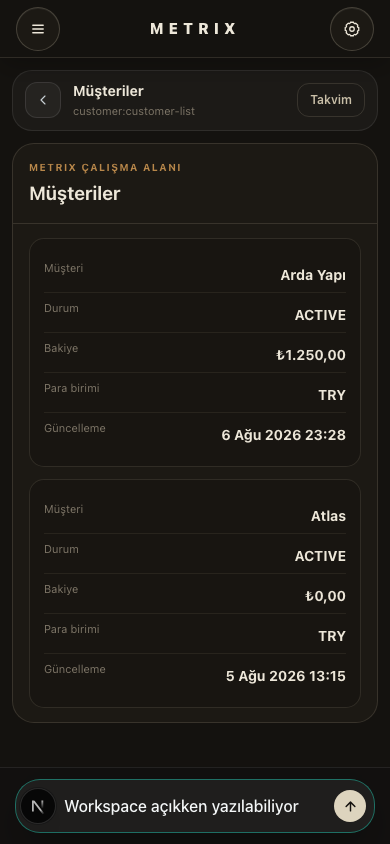
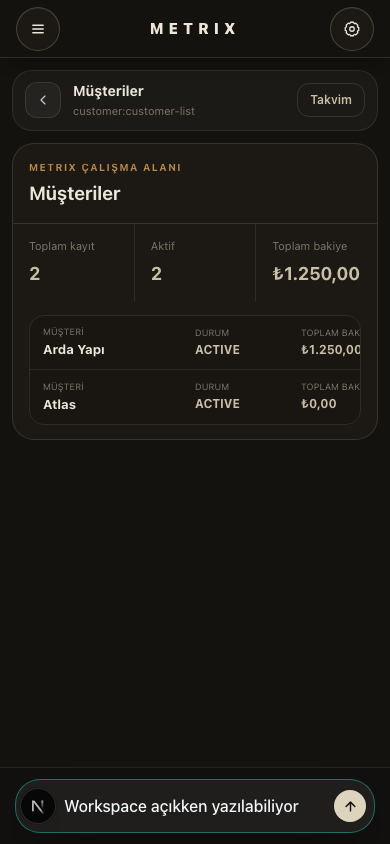
feat(workspace): generalize canonical domain overviews

diff --git a/src/components/living-workspace/CanonicalDomainSurface.tsx b/src/components/living-workspace/CanonicalDomainSurface.tsx
@@ -1,17 +1,42 @@
 "use client";
-import { useEffect, useState } from "react";
+import { useEffect, useMemo, useState } from "react";
 import { DOMAIN_SURFACE_ADAPTERS, type WorkspaceDirective } from "@/lib/living-workspace";
-import { WorkspaceSurface } from "./WorkspaceSurface";
+import { WorkspaceSurface, type WorkspaceField } from "./WorkspaceSurface";
+
+type Row = Record<string, unknown>;
 
 export function CanonicalDomainSurface({ directive, onReady, onFailure }: { directive: WorkspaceDirective; onReady: () => void; onFailure: () => void }) {
-  const [rows, setRows] = useState<Array<Record<string, unknown>> | null>(null);
-  useEffect(() => { const controller = new AbortController(); const adapter = DOMAIN_SURFACE_ADAPTERS[directive.domain]; fetch(adapter.endpoint, { credentials: "include", signal: controller.signal }).then((r) => r.json()).then((payload) => { if (!payload.ok) throw new Error("canonical surface failed"); const data = payload.data as Record<string, unknown>; const value = data[adapter.responseKey]; setRows(Array.isArray(value) ? value as Array<Record<string, unknown>> : []); onReady(); }).catch(() => { if (!controller.signal.aborted) onFailure(); }); return () => controller.abort(); }, [directive, onFailure, onReady]);
+  const [rows, setRows] = useState<Row[] | null>(null);
+  const [selected, setSelected] = useState<Row | null>(null);
+  const adapter = DOMAIN_SURFACE_ADAPTERS[directive.domain];
+  useEffect(() => { const controller = new AbortController(); fetch(adapter.endpoint, { credentials: "include", signal: controller.signal }).then((r) => r.json()).then((payload) => { if (!payload.ok) throw new Error("canonical surface failed"); const data = payload.data as Record<string, unknown>; const value = data[adapter.responseKey]; setRows(Array.isArray(value) ? value as Row[] : []); onReady(); }).catch(() => { if (!controller.signal.aborted) onFailure(); }); return () => controller.abort(); }, [adapter, directive, onFailure, onReady]);
+  useEffect(() => setSelected(null), [directive.directiveId]);
   const surface = directive.surfaces.find((item) => item.surfaceId === directive.primarySurfaceId);
-  const columns = surface?.columns ?? DOMAIN_SURFACE_ADAPTERS[directive.domain].allowedListColumns.slice(0, 5);
-  return <div className="mx-auto max-w-5xl">{rows === null ? <WorkspaceSurface title={directive.title} subtitle="Bilinen bilgiler hazırlanıyor…" identity={directive.entityId ? humanIdentity(directive.entityType, directive.entityId) : undefined}><div className="workspace-loading">{directive.title}</div></WorkspaceSurface> : <WorkspaceSurface title={humanTitle(directive.title)} subtitle={directive.subtitle} identity={directive.entityId ? humanIdentity(directive.entityType, directive.entityId) : undefined}><div className="grid gap-3">{rows.length ? rows.slice(0, 50).map((row, index) => <article className="workspace-record" key={String(row.id ?? index)}>{columns.map((column) => <div className="workspace-record-field" key={column}><span>{humanLabel(column)}</span><strong>{humanValue(row[column], column)}</strong></div>)}</article>) : <p className="workspace-empty">Bu görünümde kayıt bulunmuyor.</p>}</div></WorkspaceSurface>}</div>;
+  const columns = surface?.columns ?? adapter.allowedListColumns;
+  const listColumns = columns.filter((key) => key !== "currency").slice(0, 4);
+  const kpis = useMemo(() => rows === null ? [] : adapter.summaryMetrics.slice(0, 4).map((metric) => metricValue(metric, rows)), [adapter.summaryMetrics, rows]);
+
+  if (rows === null) return <div className="mx-auto max-w-5xl"><WorkspaceSurface title={directive.title} subtitle="Bilinen bilgiler hazırlanıyor…" identity={directive.entityId ? humanIdentity(directive.entityType, directive.entityId) : undefined}><div className="workspace-loading">{directive.title}</div></WorkspaceSurface></div>;
+
+  if (selected) return <div className="mx-auto max-w-5xl" data-canonical-domain={directive.domain} data-canonical-view="detail"><WorkspaceSurface title={primaryValue(selected, listColumns)} subtitle="Kayıt detayı" identity={String(selected.id ?? "").slice(0, 8)} actions={<button className="workspace-detail-back" onClick={() => setSelected(null)} type="button">← Listeye dön</button>} fields={columns.map((column) => ({ label: humanLabel(column), value: humanValue(selected[column], column, selected.currency) }))}/></div>;
+
+  return <div className="mx-auto max-w-5xl" data-canonical-domain={directive.domain} data-canonical-view="list"><WorkspaceSurface title={humanTitle(directive.title)} subtitle={directive.subtitle} identity={directive.entityId ? humanIdentity(directive.entityType, directive.entityId) : undefined} kpis={kpis}><div className="workspace-record-list" role="list">{rows.length ? rows.slice(0, 50).map((row, index) => <div className="workspace-record-item" key={String(row.id ?? index)} role="listitem"><button aria-label={`${primaryValue(row, listColumns)} detayını aç`} className="workspace-record-row" onClick={() => setSelected(row)} type="button">{listColumns.map((column, columnIndex) => <span className={columnIndex === 0 ? "workspace-record-primary" : "workspace-record-cell"} key={column}><small>{humanLabel(column)}</small><strong>{humanValue(row[column], column, row.currency)}</strong></span>)}<span aria-hidden="true" className="workspace-record-chevron">›</span></button></div>) : <p className="workspace-empty">Bu görünümde kayıt bulunmuyor.</p>}</div></WorkspaceSurface></div>;
 }
 
+function metricValue(metric: string, rows: Row[]): WorkspaceField {
+  if (metric === "count") return { label: "Toplam kayıt", value: humanValue(rows.length, metric) };
+  if (metric === "activeCount") return { label: "Aktif", value: humanValue(rows.filter((row) => String(row.status).toUpperCase() === "ACTIVE").length, metric) };
+  if (metric === "openCount") return { label: "Açık", value: humanValue(rows.filter((row) => ["OPEN", "PENDING", "IN_PROGRESS", "DRAFT", "SENT"].includes(String(row.status).toUpperCase())).length, metric) };
+  if (metric === "overdueCount") return { label: "Geciken", value: humanValue(rows.filter(isOverdue).length, metric) };
+  if (metric === "depletedStockCount") return { label: "Tükenen stok", value: humanValue(rows.filter((row) => row.stock !== null && row.stock !== undefined && Number(row.stock) <= 0).length, metric) };
+  const total = rows.reduce((sum, row) => sum + finiteNumber(row[metric]), 0);
+  return { label: humanLabel(metric), value: humanValue(total, metric, rows.find((row) => row.currency)?.currency) };
+}
+
+function isOverdue(row: Row) { const status = String(row.status).toUpperCase(); if (status === "OVERDUE") return true; if (["DONE", "PAID", "CANCELLED", "COMPLETED"].includes(status) || typeof row.dueDate !== "string") return false; return new Date(row.dueDate).valueOf() < Date.now(); }
+function finiteNumber(value: unknown) { const number = Number(value); return Number.isFinite(number) ? number : 0; }
+function primaryValue(row: Row, columns: readonly string[]) { const key = columns[0] ?? "id"; return humanValue(row[key], key, row.currency); }
 function humanTitle(value: string) { return value.replace(/^(payment|invoice|task|quote|product):/iu, "").replace(/\b(list|detail)\b/giu, "").trim() || "Çalışma alanı"; }
 function humanIdentity(type: string, id: string) { return `${type === "Payment" ? "Tahsilat" : type} · ${id.slice(0, 8)}`; }
-function humanLabel(key: string) { return ({ displayName: "Müşteri", customerName: "Müşteri", balanceCents: "Bakiye", dueDate: "Vade", createdAt: "Oluşturulma", updatedAt: "Güncelleme", status: "Durum", amount: "Tutar", totalAmount: "Toplam tutar", title: "Başlık", description: "Açıklama", invoiceNumber: "Fatura numarası", currency: "Para birimi", priority: "Öncelik" } as Record<string, string>)[key] ?? key.replace(/([A-Z])/g, " $1").replace(/^./, (c) => c.toUpperCase()); }
-function humanValue(value: unknown, key: string) { if (value === null || value === undefined || value === "") return key === "dueDate" ? "Vade tanımlanmamış" : "Belirtilmemiş"; if (/(date|At)$/iu.test(key) && typeof value === "string") { const date = new Date(value); if (!Number.isNaN(date.valueOf())) return new Intl.DateTimeFormat("tr-TR", { dateStyle: "medium", timeStyle: "short" }).format(date); } if (key.endsWith("Cents")) return new Intl.NumberFormat("tr-TR", { style: "currency", currency: "TRY" }).format(Number(value) / 100); return typeof value === "number" ? new Intl.NumberFormat("tr-TR").format(value) : String(value); }
+function humanLabel(key: string) { return ({ count: "Toplam kayıt", displayName: "Müşteri", customerName: "Müşteri", balanceCents: "Toplam bakiye", dueDate: "Vade", createdAt: "Oluşturulma", updatedAt: "Güncelleme", status: "Durum", amount: "Toplam tutar", totalAmount: "Toplam tutar", title: "Başlık", description: "Açıklama", invoiceNumber: "Fatura numarası", currency: "Para birimi", priority: "Öncelik", stock: "Stok", name: "Ürün" } as Record<string, string>)[key] ?? key.replace(/([A-Z])/g, " $1").replace(/^./, (c) => c.toUpperCase()); }
+function humanValue(value: unknown, key: string, currency?: unknown) { if (value === null || value === undefined || value === "") return key === "dueDate" ? "Vade tanımlanmamış" : "Belirtilmemiş"; if (/(date|At)$/iu.test(key) && typeof value === "string") { const date = new Date(value); if (!Number.isNaN(date.valueOf())) return new Intl.DateTimeFormat("tr-TR", { dateStyle: "medium" }).format(date); } if (key.endsWith("Cents")) return new Intl.NumberFormat("tr-TR", { style: "currency", currency: String(currency ?? "TRY") }).format(Number(value) / 100); if (key === "amount" || key === "totalAmount") return new Intl.NumberFormat("tr-TR", { style: "currency", currency: String(currency ?? "TRY") }).format(Number(value)); return typeof value === "number" ? new Intl.NumberFormat("tr-TR").format(value) : String(value); }

diff --git a/src/lib/living-workspace/domain-adapters.ts b/src/lib/living-workspace/domain-adapters.ts
@@ -17,12 +17,12 @@ export type DomainSurfaceAdapter = Readonly<{
 }>;
 export const DOMAIN_SURFACE_ADAPTERS: Readonly<Record<WorkspaceDomain, DomainSurfaceAdapter>> = Object.freeze({
   company: Object.freeze({ domainKey:"company", entityTypes:["Company"], endpoint:"/api/company", responseKey:"company", fieldRegistry:["summary","risks","opportunities","dataQuality"], allowedListColumns:[], allowedFilters:[], allowedSorts:[], summaryMetrics:["profileReadiness","activeGoals","openManagementIssues","connectedDataSources"], supportedQuickActions:["open-full-page"], fullPageRoutes:["/metrix/company"], permissionRequirements:["company.read"], emptyStateCode:"COMPANY_CANONICAL_DATA_EMPTY", dataQualityCode:"COMPANY_MODEL_DATA_QUALITY" }),
-  customer: Object.freeze({ domainKey:"customer", entityTypes:["Customer"], endpoint:"/api/customers", responseKey:"customers", fieldRegistry:["displayName","legalName","status","balanceCents","currency","updatedAt"], allowedListColumns:["displayName","status","balanceCents","currency","updatedAt"], allowedFilters:["displayName","status","balanceCents"], allowedSorts:["displayName","balanceCents","updatedAt"], summaryMetrics:["count","balanceCents"], supportedQuickActions:["open-detail","open-full-page"], fullPageRoutes:["/metrix/customers"], permissionRequirements:["customers.read"], emptyStateCode:"CUSTOMER_CANONICAL_DATA_EMPTY", dataQualityCode:"OVERDUE_REQUIRES_DUE_DATE_CAPABILITY" }),
-  product: Object.freeze({ domainKey:"product", entityTypes:["ProductService"], endpoint:"/api/products", responseKey:"products", fieldRegistry:["name","type","category","priceCents","costCents","currency","status","stock"], allowedListColumns:["name","type","category","priceCents","costCents","currency","status","stock"], allowedFilters:["name","type","category","priceCents","status","stock"], allowedSorts:["name","priceCents","costCents","updatedAt"], summaryMetrics:["count"], supportedQuickActions:["open-full-page"], fullPageRoutes:["/metrix/products"], permissionRequirements:["products.read"], emptyStateCode:"PRODUCT_CANONICAL_DATA_EMPTY", dataQualityCode:"STOCK_REQUIRES_CANONICAL_ATTRIBUTE" }),
+  customer: Object.freeze({ domainKey:"customer", entityTypes:["Customer"], endpoint:"/api/customers", responseKey:"customers", fieldRegistry:["displayName","legalName","status","balanceCents","currency","updatedAt"], allowedListColumns:["displayName","status","balanceCents","currency","updatedAt"], allowedFilters:["displayName","status","balanceCents"], allowedSorts:["displayName","balanceCents","updatedAt"], summaryMetrics:["count","activeCount","balanceCents"], supportedQuickActions:["open-detail","open-full-page"], fullPageRoutes:["/metrix/customers"], permissionRequirements:["customers.read"], emptyStateCode:"CUSTOMER_CANONICAL_DATA_EMPTY", dataQualityCode:"OVERDUE_REQUIRES_DUE_DATE_CAPABILITY" }),
+  product: Object.freeze({ domainKey:"product", entityTypes:["ProductService"], endpoint:"/api/products", responseKey:"products", fieldRegistry:["name","type","category","priceCents","costCents","currency","status","stock"], allowedListColumns:["name","type","category","priceCents","costCents","currency","status","stock"], allowedFilters:["name","type","category","priceCents","status","stock"], allowedSorts:["name","priceCents","costCents","updatedAt"], summaryMetrics:["count","activeCount","depletedStockCount"], supportedQuickActions:["open-detail","open-full-page"], fullPageRoutes:["/metrix/products"], permissionRequirements:["products.read"], emptyStateCode:"PRODUCT_CANONICAL_DATA_EMPTY", dataQualityCode:"STOCK_REQUIRES_CANONICAL_ATTRIBUTE" }),
   notification: Object.freeze({ domainKey:"notification", entityTypes:["Notification"], endpoint:"/api/notifications", responseKey:"notifications", fieldRegistry:["title","body","severity","type","isRead","createdAt"], allowedListColumns:["title","severity","type","isRead","createdAt"], allowedFilters:["severity","type","isRead"], allowedSorts:["createdAt"], summaryMetrics:["count","unreadCount"], supportedQuickActions:["open-full-page"], fullPageRoutes:["/metrix/notifications"], permissionRequirements:["notifications.read"], emptyStateCode:"NOTIFICATION_CANONICAL_DATA_EMPTY", dataQualityCode:"NOTIFICATION_MODEL_DATA_QUALITY" }),
-  task: Object.freeze({ domainKey:"task", entityTypes:["Task"], endpoint:"/api/tasks", responseKey:"tasks", fieldRegistry:["title","description","dueDate","priority","status"], allowedListColumns:["title","dueDate","priority","status"], allowedFilters:["status","priority"], allowedSorts:["dueDate","createdAt"], summaryMetrics:["count","openCount","overdueCount"], supportedQuickActions:["open-full-page"], fullPageRoutes:["/metrix/tasks","/metrix/tasks/new"], permissionRequirements:["tasks.read"], emptyStateCode:"TASK_CANONICAL_DATA_EMPTY", dataQualityCode:"TASK_MODEL_DATA_QUALITY" }),
-  offer: Object.freeze({ domainKey:"offer", entityTypes:["Quote"], endpoint:"/api/quotes", responseKey:"quotes", fieldRegistry:["customerName","title","amount","currency","status","updatedAt"], allowedListColumns:["customerName","title","amount","status","updatedAt"], allowedFilters:["status","customerName"], allowedSorts:["updatedAt","amount"], summaryMetrics:["count"], supportedQuickActions:["open-full-page"], fullPageRoutes:["/metrix/offers"], permissionRequirements:["offers.read"], emptyStateCode:"OFFER_CANONICAL_DATA_EMPTY", dataQualityCode:"OFFER_MODEL_DATA_QUALITY" }),
-  payment: Object.freeze({ domainKey:"payment", entityTypes:["Payment"], endpoint:"/api/payments", responseKey:"payments", fieldRegistry:["title","amount","currency","status","dueDate","createdAt"], allowedListColumns:["title","amount","currency","status","dueDate"], allowedFilters:["status"], allowedSorts:["dueDate","createdAt"], summaryMetrics:["count"], supportedQuickActions:["open-full-page"], fullPageRoutes:["/metrix/collections"], permissionRequirements:["payments.read"], emptyStateCode:"PAYMENT_CANONICAL_DATA_EMPTY", dataQualityCode:"PAYMENT_MODEL_DATA_QUALITY" }),
-  invoice: Object.freeze({ domainKey:"invoice", entityTypes:["Invoice"], endpoint:"/api/invoices", responseKey:"invoices", fieldRegistry:["invoiceNumber","title","totalAmount","currency","status","dueDate"], allowedListColumns:["invoiceNumber","title","totalAmount","currency","status","dueDate"], allowedFilters:["status"], allowedSorts:["dueDate","createdAt"], summaryMetrics:["count"], supportedQuickActions:["open-full-page"], fullPageRoutes:["/metrix/invoices"], permissionRequirements:["invoices.read"], emptyStateCode:"INVOICE_CANONICAL_DATA_EMPTY", dataQualityCode:"INVOICE_MODEL_DATA_QUALITY" }),
+  task: Object.freeze({ domainKey:"task", entityTypes:["Task"], endpoint:"/api/tasks", responseKey:"tasks", fieldRegistry:["title","description","dueDate","priority","status"], allowedListColumns:["title","dueDate","priority","status"], allowedFilters:["status","priority"], allowedSorts:["dueDate","createdAt"], summaryMetrics:["count","openCount","overdueCount"], supportedQuickActions:["open-detail","open-full-page"], fullPageRoutes:["/metrix/tasks","/metrix/tasks/new"], permissionRequirements:["tasks.read"], emptyStateCode:"TASK_CANONICAL_DATA_EMPTY", dataQualityCode:"TASK_MODEL_DATA_QUALITY" }),
+  offer: Object.freeze({ domainKey:"offer", entityTypes:["Quote"], endpoint:"/api/quotes", responseKey:"quotes", fieldRegistry:["customerName","title","amount","currency","status","updatedAt"], allowedListColumns:["customerName","title","amount","status","updatedAt"], allowedFilters:["status","customerName"], allowedSorts:["updatedAt","amount"], summaryMetrics:["count","openCount","amount"], supportedQuickActions:["open-detail","open-full-page"], fullPageRoutes:["/metrix/offers"], permissionRequirements:["offers.read"], emptyStateCode:"OFFER_CANONICAL_DATA_EMPTY", dataQualityCode:"OFFER_MODEL_DATA_QUALITY" }),
+  payment: Object.freeze({ domainKey:"payment", entityTypes:["Payment"], endpoint:"/api/payments", responseKey:"payments", fieldRegistry:["title","amount","currency","status","dueDate","createdAt"], allowedListColumns:["title","amount","currency","status","dueDate"], allowedFilters:["status"], allowedSorts:["dueDate","createdAt"], summaryMetrics:["count","overdueCount","amount"], supportedQuickActions:["open-detail","open-full-page"], fullPageRoutes:["/metrix/collections"], permissionRequirements:["payments.read"], emptyStateCode:"PAYMENT_CANONICAL_DATA_EMPTY", dataQualityCode:"PAYMENT_MODEL_DATA_QUALITY" }),
+  invoice: Object.freeze({ domainKey:"invoice", entityTypes:["Invoice"], endpoint:"/api/invoices", responseKey:"invoices", fieldRegistry:["invoiceNumber","title","totalAmount","currency","status","dueDate"], allowedListColumns:["invoiceNumber","title","totalAmount","currency","status","dueDate"], allowedFilters:["status"], allowedSorts:["dueDate","createdAt"], summaryMetrics:["count","overdueCount","totalAmount"], supportedQuickActions:["open-detail","open-full-page"], fullPageRoutes:["/metrix/invoices"], permissionRequirements:["invoices.read"], emptyStateCode:"INVOICE_CANONICAL_DATA_EMPTY", dataQualityCode:"INVOICE_MODEL_DATA_QUALITY" }),
   accounting: Object.freeze({ domainKey:"accounting", entityTypes:["AccountingSummary"], endpoint:"/api/accounting/summary", responseKey:"summary", fieldRegistry:["cashPosition","totalReceivable","totalPayable","monthlyRevenue","monthlyExpense","monthlyTaxLiability"], allowedListColumns:[], allowedFilters:[], allowedSorts:[], summaryMetrics:["cashPosition","totalReceivable","totalPayable","monthlyRevenue","monthlyExpense","monthlyTaxLiability"], supportedQuickActions:["open-full-page"], fullPageRoutes:["/metrix/accounting"], permissionRequirements:["accounting.read"], emptyStateCode:"ACCOUNTING_CANONICAL_DATA_EMPTY", dataQualityCode:"ACCOUNTING_COMPUTED_SUMMARY_DATA_QUALITY" }),
 });

diff --git a/src/app/globals.css b/src/app/globals.css
@@ -59,12 +59,16 @@ body {
 .workspace-kpis { display:grid; grid-template-columns:repeat(auto-fit,minmax(120px,1fr)); gap:1px; background:rgba(228,214,182,.1); }
 .workspace-kpi { padding:14px 16px; background:#1C1914; } .workspace-kpi span { display:block; color:#7C7466; font-size:11px; } .workspace-kpi strong { display:block; margin-top:6px; font-size:18px; color:#C9BFA8; }
 .workspace-content,.workspace-fields,.workspace-actions { padding:18px 20px; } .workspace-fields { display:grid; grid-template-columns:repeat(auto-fit,minmax(180px,1fr)); gap:14px; border-bottom:1px solid rgba(228,214,182,.1); } .workspace-fields dt,.workspace-record-field span { color:#7C7466; font-size:11px; } .workspace-fields dd,.workspace-record-field strong { margin-top:4px; color:#EDE7D9; font-size:14px; }
-.workspace-record { padding:14px; border:1px solid rgba(228,214,182,.12); border-radius:15px; background:rgba(20,18,15,.55); } .workspace-record-field { display:flex; justify-content:space-between; gap:14px; padding:7px 0; border-bottom:1px solid rgba(228,214,182,.08); } .workspace-record-field:last-child { border-bottom:0; }
+.workspace-record-list { max-height:min(46vh,430px); overflow-y:auto; overscroll-behavior:contain; border:1px solid rgba(228,214,182,.1); border-radius:15px; }
+.workspace-record-item { border-bottom:1px solid rgba(228,214,182,.09); } .workspace-record-item:last-child { border-bottom:0; }
+.workspace-record-row { display:grid; grid-template-columns:minmax(150px,1.5fr) repeat(3,minmax(92px,1fr)) 18px; align-items:center; width:100%; min-height:54px; gap:14px; padding:9px 13px; background:rgba(20,18,15,.38); color:#EDE7D9; text-align:left; transition:background-color 160ms ease,border-color 160ms ease; }
+.workspace-record-row:hover,.workspace-record-row:focus-visible { background:rgba(228,214,182,.07); outline:none; } .workspace-record-row small { display:block; overflow:hidden; color:#7C7466; font-size:9px; line-height:1.2; text-overflow:ellipsis; text-transform:uppercase; white-space:nowrap; } .workspace-record-row strong { display:block; overflow:hidden; margin-top:3px; color:#C9BFA8; font-size:12px; line-height:1.3; text-overflow:ellipsis; white-space:nowrap; } .workspace-record-primary strong { color:#EDE7D9; font-size:13px; } .workspace-record-chevron { color:#7C7466; font-size:20px; text-align:right; }
+.workspace-detail-back { border:1px solid rgba(228,214,182,.14); border-radius:10px; padding:8px 11px; color:#C9BFA8; background:rgba(228,214,182,.04); font-size:12px; font-weight:600; }
 .workspace-empty,.workspace-loading { padding:24px; color:#7C7466; text-align:center; } .calendar-toolbar { display:flex; align-items:center; gap:8px; flex-wrap:wrap; } .calendar-toolbar button { border:1px solid rgba(228,214,182,.14); border-radius:9px; padding:6px 9px; color:#C9BFA8; background:rgba(228,214,182,.04); } .calendar-toolbar button.is-active { background:#B8874A; color:#14120F; } .calendar-spacer { flex:1; }
 .calendar-weekdays,.calendar-days { display:grid; grid-template-columns:repeat(7,minmax(0,1fr)); gap:5px; } .calendar-weekdays { margin-bottom:5px; color:#7C7466; font-size:11px; text-align:center; } .calendar-days button,.calendar-days>span { min-height:58px; border:1px solid rgba(228,214,182,.1); border-radius:10px; padding:8px; text-align:left; background:rgba(20,18,15,.55); color:#EDE7D9; } .calendar-days button.is-selected { border-color:#B8874A; } .calendar-days time { display:block; font-size:12px; } .calendar-days b { display:inline-grid; place-items:center; margin-top:11px; min-width:18px; height:18px; border-radius:50%; color:#14120F; background:#C9BFA8; font-size:10px; }
 .calendar-week-days button { min-height:110px; } .calendar-mini-item { display:block; margin-top:5px; padding:4px 5px; border-left:2px solid #B8874A; color:#C9BFA8; font-size:10px; line-height:1.25; } .calendar-no-item { color:#7C7466; font-size:11px; }
 .calendar-agenda { margin-top:18px; padding-top:16px; border-top:1px solid rgba(228,214,182,.12); } .calendar-agenda h3 { font-size:15px; } .calendar-agenda p { margin-top:10px; color:#7C7466; font-size:13px; } .calendar-item { display:grid; grid-template-columns:72px 1fr auto; gap:10px; align-items:center; margin-top:8px; padding:11px 12px; border:1px solid rgba(228,214,182,.1); border-radius:11px; } .calendar-item span,.calendar-item small { color:#7C7466; font-size:11px; } .calendar-item strong { font-size:13px; font-weight:600; }
-@keyframes workspace-arrive { from { opacity:0; transform:scale(.94); } to { opacity:1; transform:scale(1); } } @media (prefers-reduced-motion:reduce) { .workspace-surface { animation:none; } } @media (max-width:640px) { .workspace-surface-header { padding:16px; } .workspace-content,.workspace-fields,.workspace-actions { padding:14px 16px; } .workspace-identity { display:none; } }
+@keyframes workspace-arrive { from { opacity:0; transform:scale(.94); } to { opacity:1; transform:scale(1); } } @media (prefers-reduced-motion:reduce) { .workspace-surface { animation:none; } } @media (max-width:640px) { .workspace-surface-header { padding:16px; } .workspace-content,.workspace-fields,.workspace-actions { padding:14px 16px; } .workspace-identity { display:none; } .workspace-record-row { grid-template-columns:minmax(128px,1.5fr) repeat(3,minmax(84px,1fr)) 14px; min-width:510px; } .workspace-record-list { overflow-x:auto; } }
 
 [data-executive-focus="validation-error"] {
   outline-color: #e8685a;

diff --git a/e2e/qa-visual-consistency.e2e.ts b/e2e/qa-visual-consistency.e2e.ts
@@ -64,6 +64,40 @@ test("keeps the conversation composer usable while a workspace is open on mobile
   await openSurfaceOnMobile(page, "/metrix/customers", "customers.list.page", "mobil-workspace-girdi", "Arda Yapı");
 });
 
+test("shows canonical KPIs and drills into a compact customer row in the same frame", async ({ page }) => {
+  await page.setViewportSize({ width: 1440, height: 1000 });
+  await mockApp(page);
+  await page.goto("/");
+  await page.route("**/api/ai/chat", async (r) => {
+    const correlationId = "qa-canonical-overview";
+    const body = [JSON.stringify({ type: "navigation", command: { correlationId, source: "written", route: "/metrix/customers", expectedSurfaceAuthorityKey: "customers.list.page" } }), JSON.stringify({ type: "chunk", content: "Müşteri genel bakışını açıyorum." }), JSON.stringify({ type: "done", conversationId: correlationId, ai: { content: "Müşteri genel bakışını açıyorum." } })].join("\n") + "\n";
+    await r.fulfill({ status: 200, contentType: "application/x-ndjson", body });
+  }, { times: 1 });
+  await page.getByPlaceholder("Metrix ile konuş...").fill("müşteriler");
+  await page.getByRole("button", { name: "Gönder" }).click();
+  const list = page.locator('[data-canonical-domain="customer"][data-canonical-view="list"]');
+  await expect(list).toBeVisible();
+  await expect(list.getByText("Toplam kayıt")).toBeVisible();
+  await expect(list.locator(".workspace-kpi").getByText("Toplam bakiye", { exact: true })).toBeVisible();
+  const row = list.getByRole("button", { name: "Arda Yapı detayını aç" });
+  await expect(row).toBeVisible();
+  expect((await row.boundingBox())!.height).toBeLessThanOrEqual(60);
+  const frame = page.locator('[data-workspace-frame="centered"]');
+  const before = await frame.boundingBox();
+  await page.waitForTimeout(500);
+  await page.screenshot({ path: "qa-screenshots/musteri-genel-bakis-kompakt.png", fullPage: true });
+  await row.click();
+  const detail = page.locator('[data-canonical-domain="customer"][data-canonical-view="detail"]');
+  await expect(detail.getByRole("heading", { name: "Arda Yapı" })).toBeVisible();
+  await expect(detail.getByRole("button", { name: "Listeye dön" })).toBeVisible();
+  const after = await frame.boundingBox();
+  expect(after!.x).toBe(before!.x);
+  expect(after!.width).toBe(before!.width);
+  await page.screenshot({ path: "qa-screenshots/musteri-detay-ayni-cerceve.png", fullPage: true });
+  await detail.getByRole("button", { name: "Listeye dön" }).click();
+  await expect(list).toBeVisible();
+});
+
 async function openSurfaceOnMobile(page: Page, route: string, authority: string, name: string, expectedText: string) {
   await page.route("**/api/ai/chat", async (r) => {
     const correlationId = `qa-${name}`;
